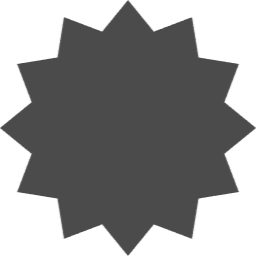
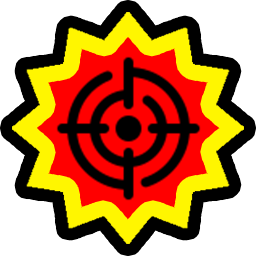
タイミング機能を追加し、関連するスタイルを整備しました

diff --git a/web-app-ts/src/routes/board.ts b/web-app-ts/src/routes/board.ts
@@ -50,6 +50,7 @@ type BoardDetailUbRow = {
   autoActive: boolean;
   comment: string;
   isAddedRow: boolean;
+  timing: boolean;
 };
 
 type TimelineUbEvent = {
@@ -265,6 +266,7 @@ function resolveBoardDetailUbRows(article: any): BoardDetailUbRow[] {
         autoActive?: unknown;
         comment?: unknown;
         isAddedRow?: unknown;
+        timing?: unknown;
       };
       const time = typeof event.time === 'string' ? event.time : '';
       const ubText = typeof event.character === 'string' ? event.character.trim() : '';
@@ -279,6 +281,7 @@ function resolveBoardDetailUbRows(article: any): BoardDetailUbRow[] {
       const autoActive = typeof event.autoActive === 'boolean' ? event.autoActive : false;
       const comment = typeof event.comment === 'string' ? event.comment : '';
       const isAddedRow = typeof event.isAddedRow === 'boolean' ? event.isAddedRow : false;
+      const timing = typeof event.timing === 'boolean' ? event.timing : false;
       rows.push({
         time,
         ubText,
@@ -286,7 +289,8 @@ function resolveBoardDetailUbRows(article: any): BoardDetailUbRow[] {
         activeIcons,
         autoActive,
         comment,
-        isAddedRow
+        isAddedRow,
+        timing
       });
     }
 
@@ -315,7 +319,8 @@ function resolveBoardDetailUbRows(article: any): BoardDetailUbRow[] {
         activeIcons: [],
         autoActive: false,
         comment: '',
-        isAddedRow: false
+        isAddedRow: false,
+        timing: false
       });
     }
   }

diff --git a/web-app-ts/public/styles/main.css b/web-app-ts/public/styles/main.css
@@ -749,6 +749,10 @@ body {
     background: #ffd9d9 !important;
 }
 
+.ub-table tbody tr[data-timing="true"] + tr.ub-comment-row td {
+    background: #ffd9d9 !important;
+}
+
 .ub-event-cell-inner {
     position: relative;
     display: inline-block;
@@ -757,13 +761,12 @@ body {
 .ub-timing-hoshi {
     display: none;
     position: absolute;
-    top: -2px;
-    left: -2px;
-    width: 28px;
-    height: 28px;
+    top: calc(-6px * var(--ub-icon-scale, 1));
+    left: calc(-6px * var(--ub-icon-scale, 1));
+    width: calc(34px * var(--ub-icon-scale, 1));
+    height: calc(34px * var(--ub-icon-scale, 1));
     pointer-events: none;
     z-index: 2;
-    filter: hue-rotate(15deg) saturate(1.5) brightness(1.1);
 }
 
 tr[data-timing="true"] .ub-timing-hoshi {
@@ -1131,6 +1134,11 @@ tr[data-timing="true"] .ub-timing-hoshi {
 .ub-comment-cell {
     background: #fff9d9;
     padding: 0.35rem 0.45rem 0.55rem 0.45rem;
+}
+
+.ub-table tbody tr[data-timing="true"] + tr.ub-comment-row .ub-comment-prefix-cell,
+.ub-table tbody tr[data-timing="true"] + tr.ub-comment-row .ub-comment-cell {
+    background: #ffd9d9;
 }
 
 .ub-comment-content {
